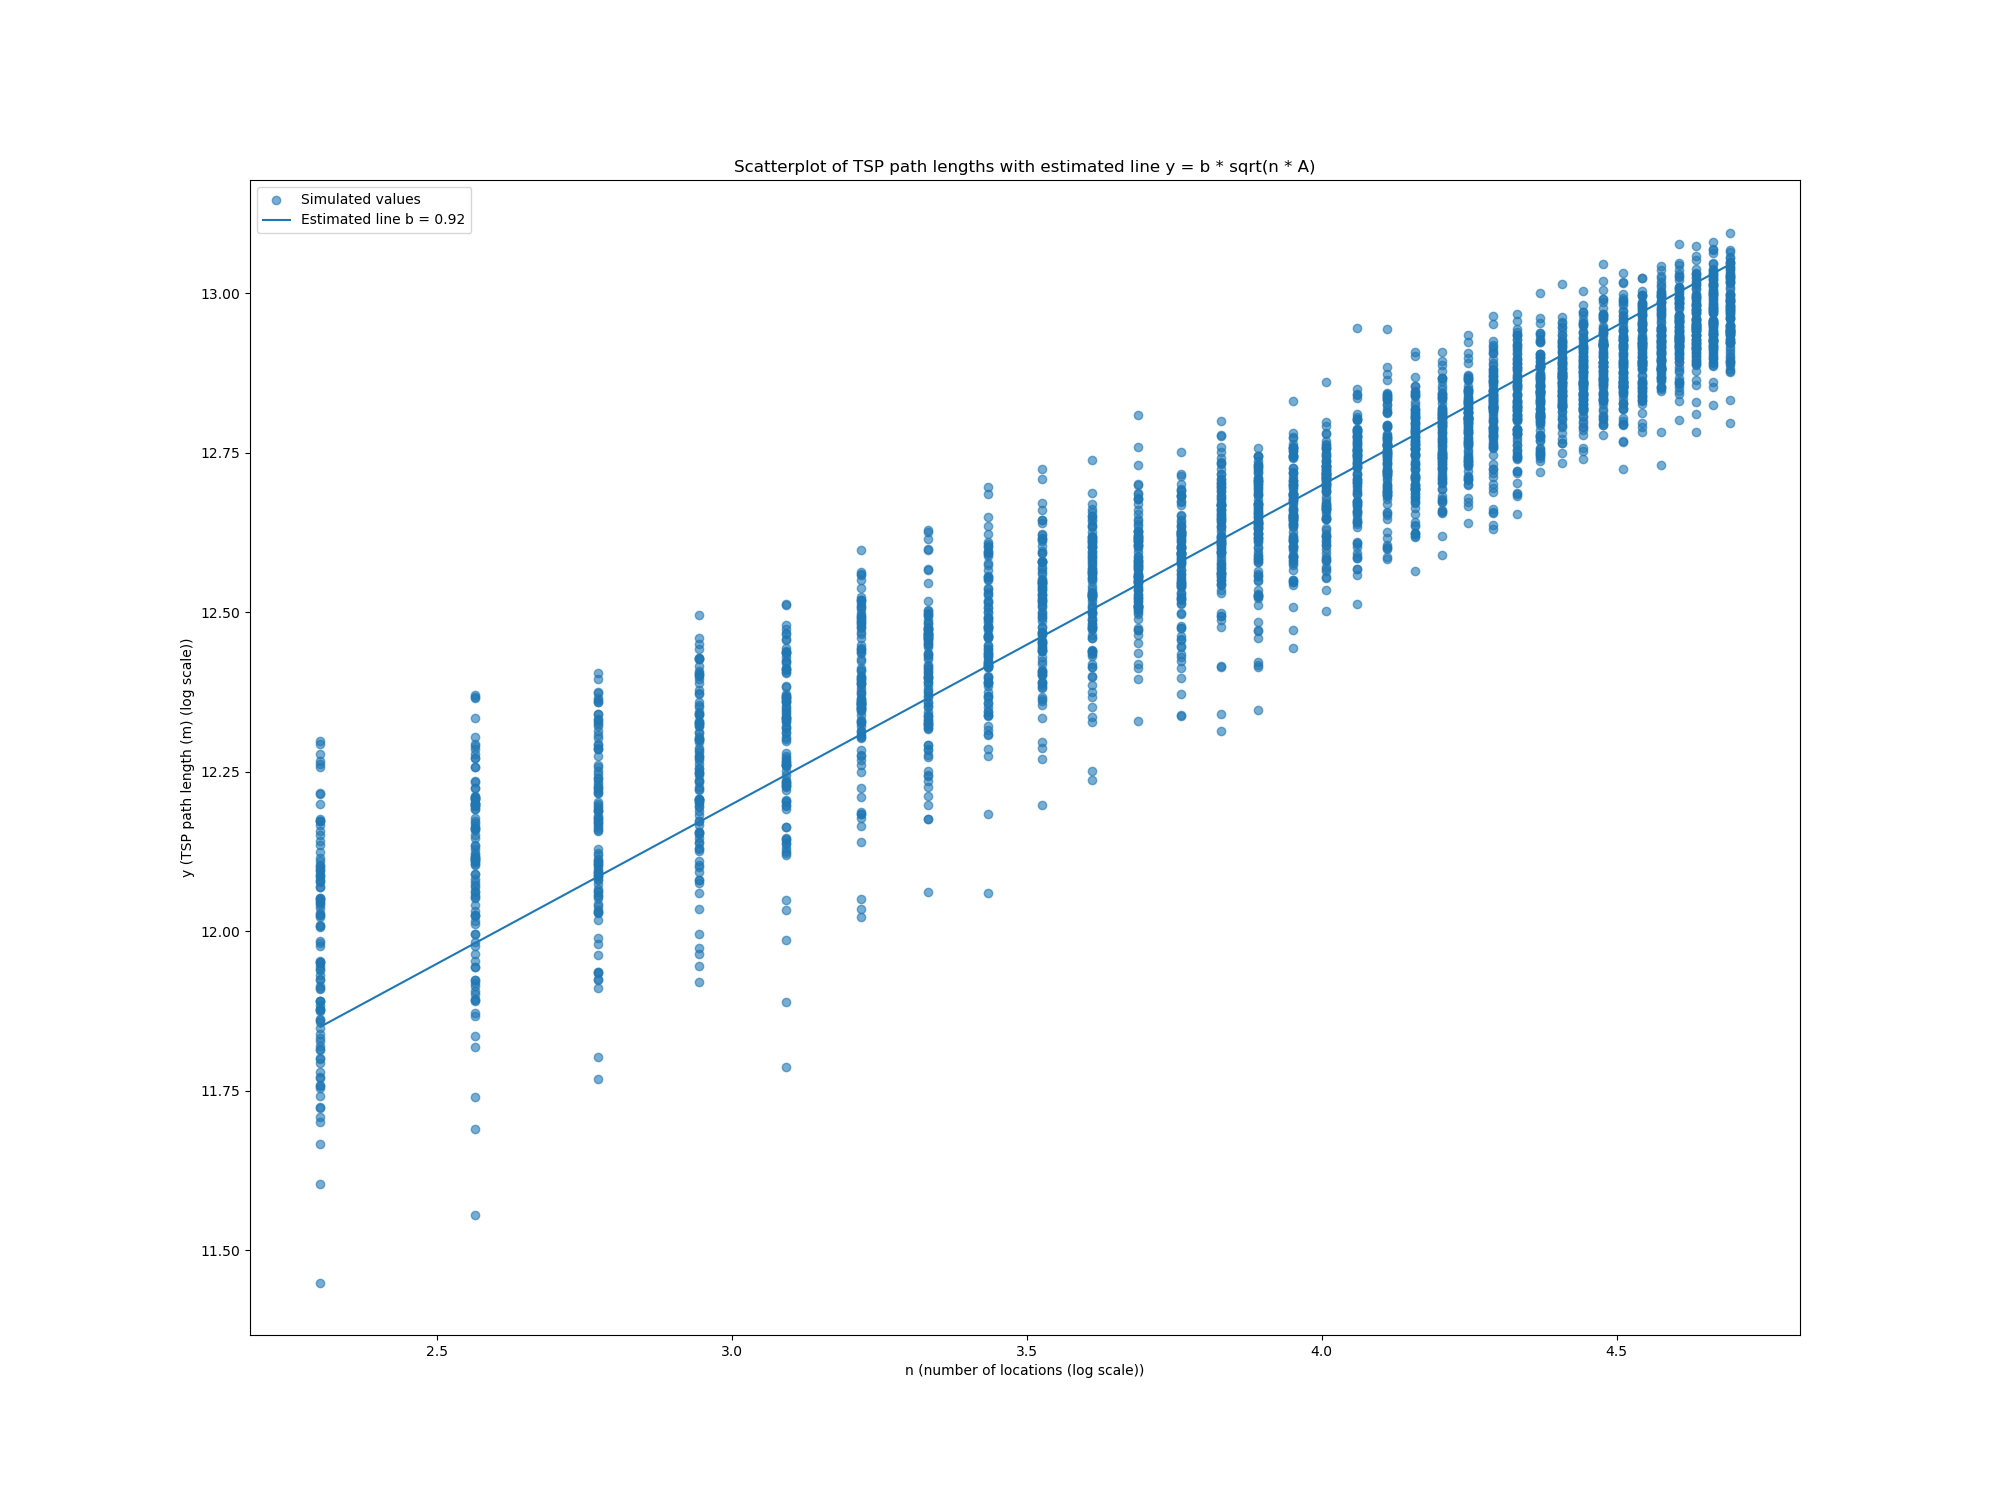
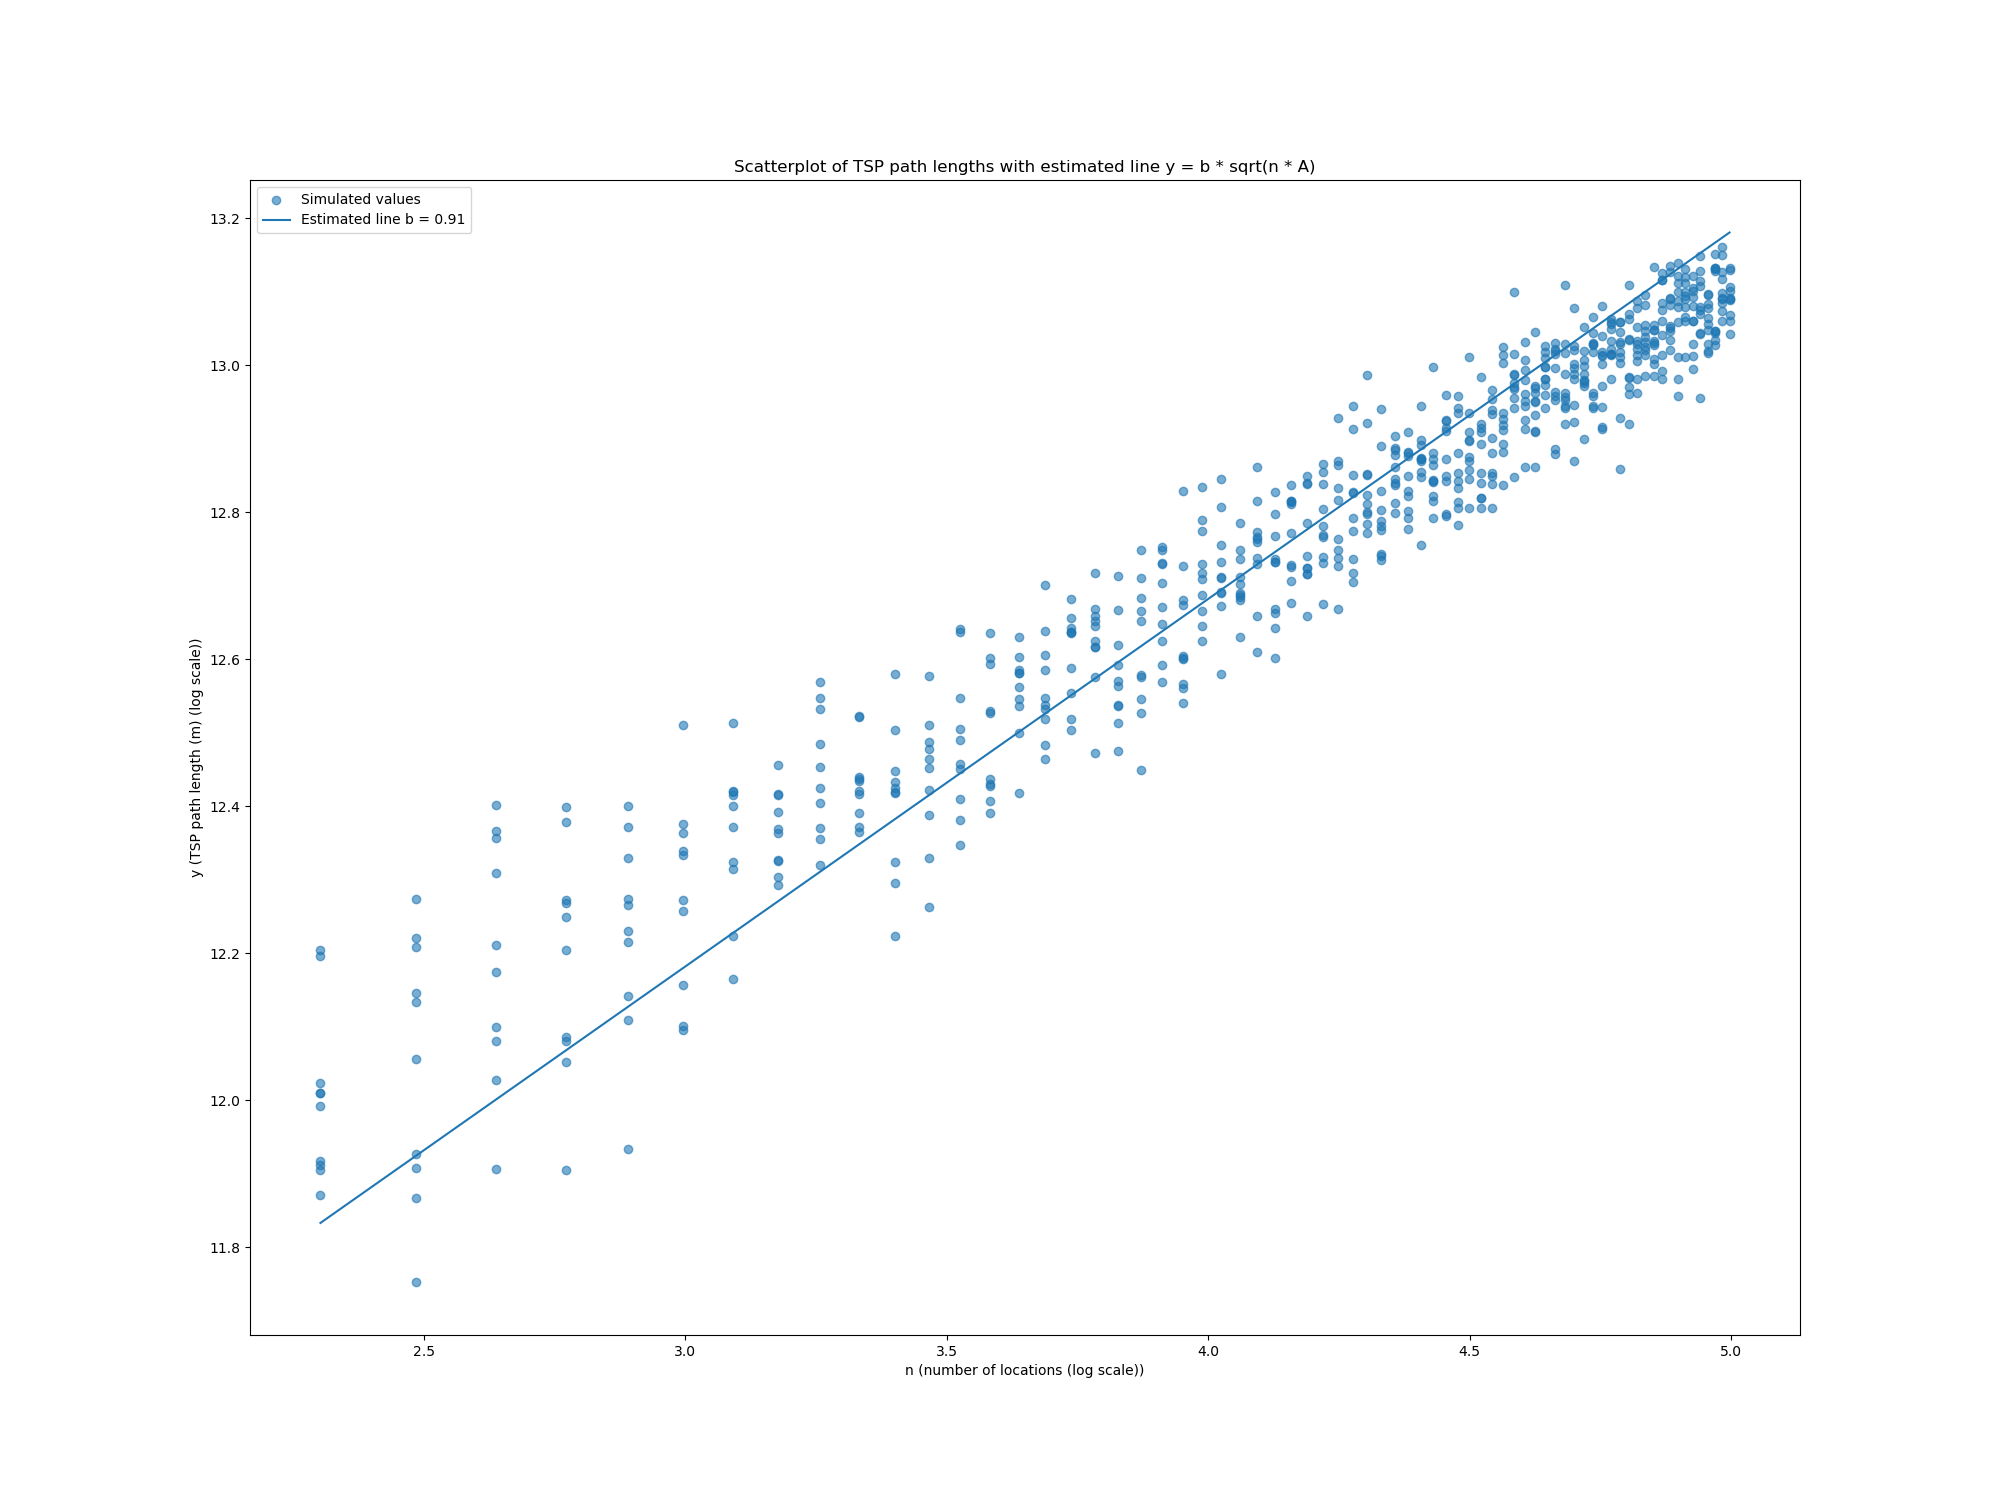
10-150 locations

diff --git a/project/main.py b/project/main.py
@@ -6,6 +6,8 @@ from graph import make_graph
 from nodes import get_nodes
 from read_tour import read_tours
 from tsp import parrallel_solve_tsps, create_tsps
+from map import create_map
+from route import paths_subset
 
 print("Importing the roads...")
 roads = get_road_data()
@@ -30,11 +32,11 @@ print(
     f"Graph has {len(graph.vs)} vertices and {len(graph.es)} edges. It contains {len(graph.components())} component(s)."
 )
 
-# print("Visualizing the road network on the map...")
-# create_map(roads, "Groningen.html")
+print("Visualizing the road network on the map...")
+create_map(roads, "Groningen.html")
 
 print("Creating TSP instances...")
-create_tsps(graph, 100, range(100, 110, 3), 8)
+create_tsps(graph, 10, range(10, 150, 2), 16)
 
 print("Solving the TSPs...")
 parrallel_solve_tsps(19)
@@ -42,8 +44,8 @@ parrallel_solve_tsps(19)
 print("Reading the output...")
 tours, distances = read_tours()
 
-# print("Visualizing some routes...")
-# paths_subset(graph, nodes, buildings, tours, distances)
+print("Visualizing some routes...")
+paths_subset(graph, nodes, buildings, tours, distances)
 
 print("Finding beta and making scatter plot...")
 x, y, b_hat, b = find_beta(distances)
